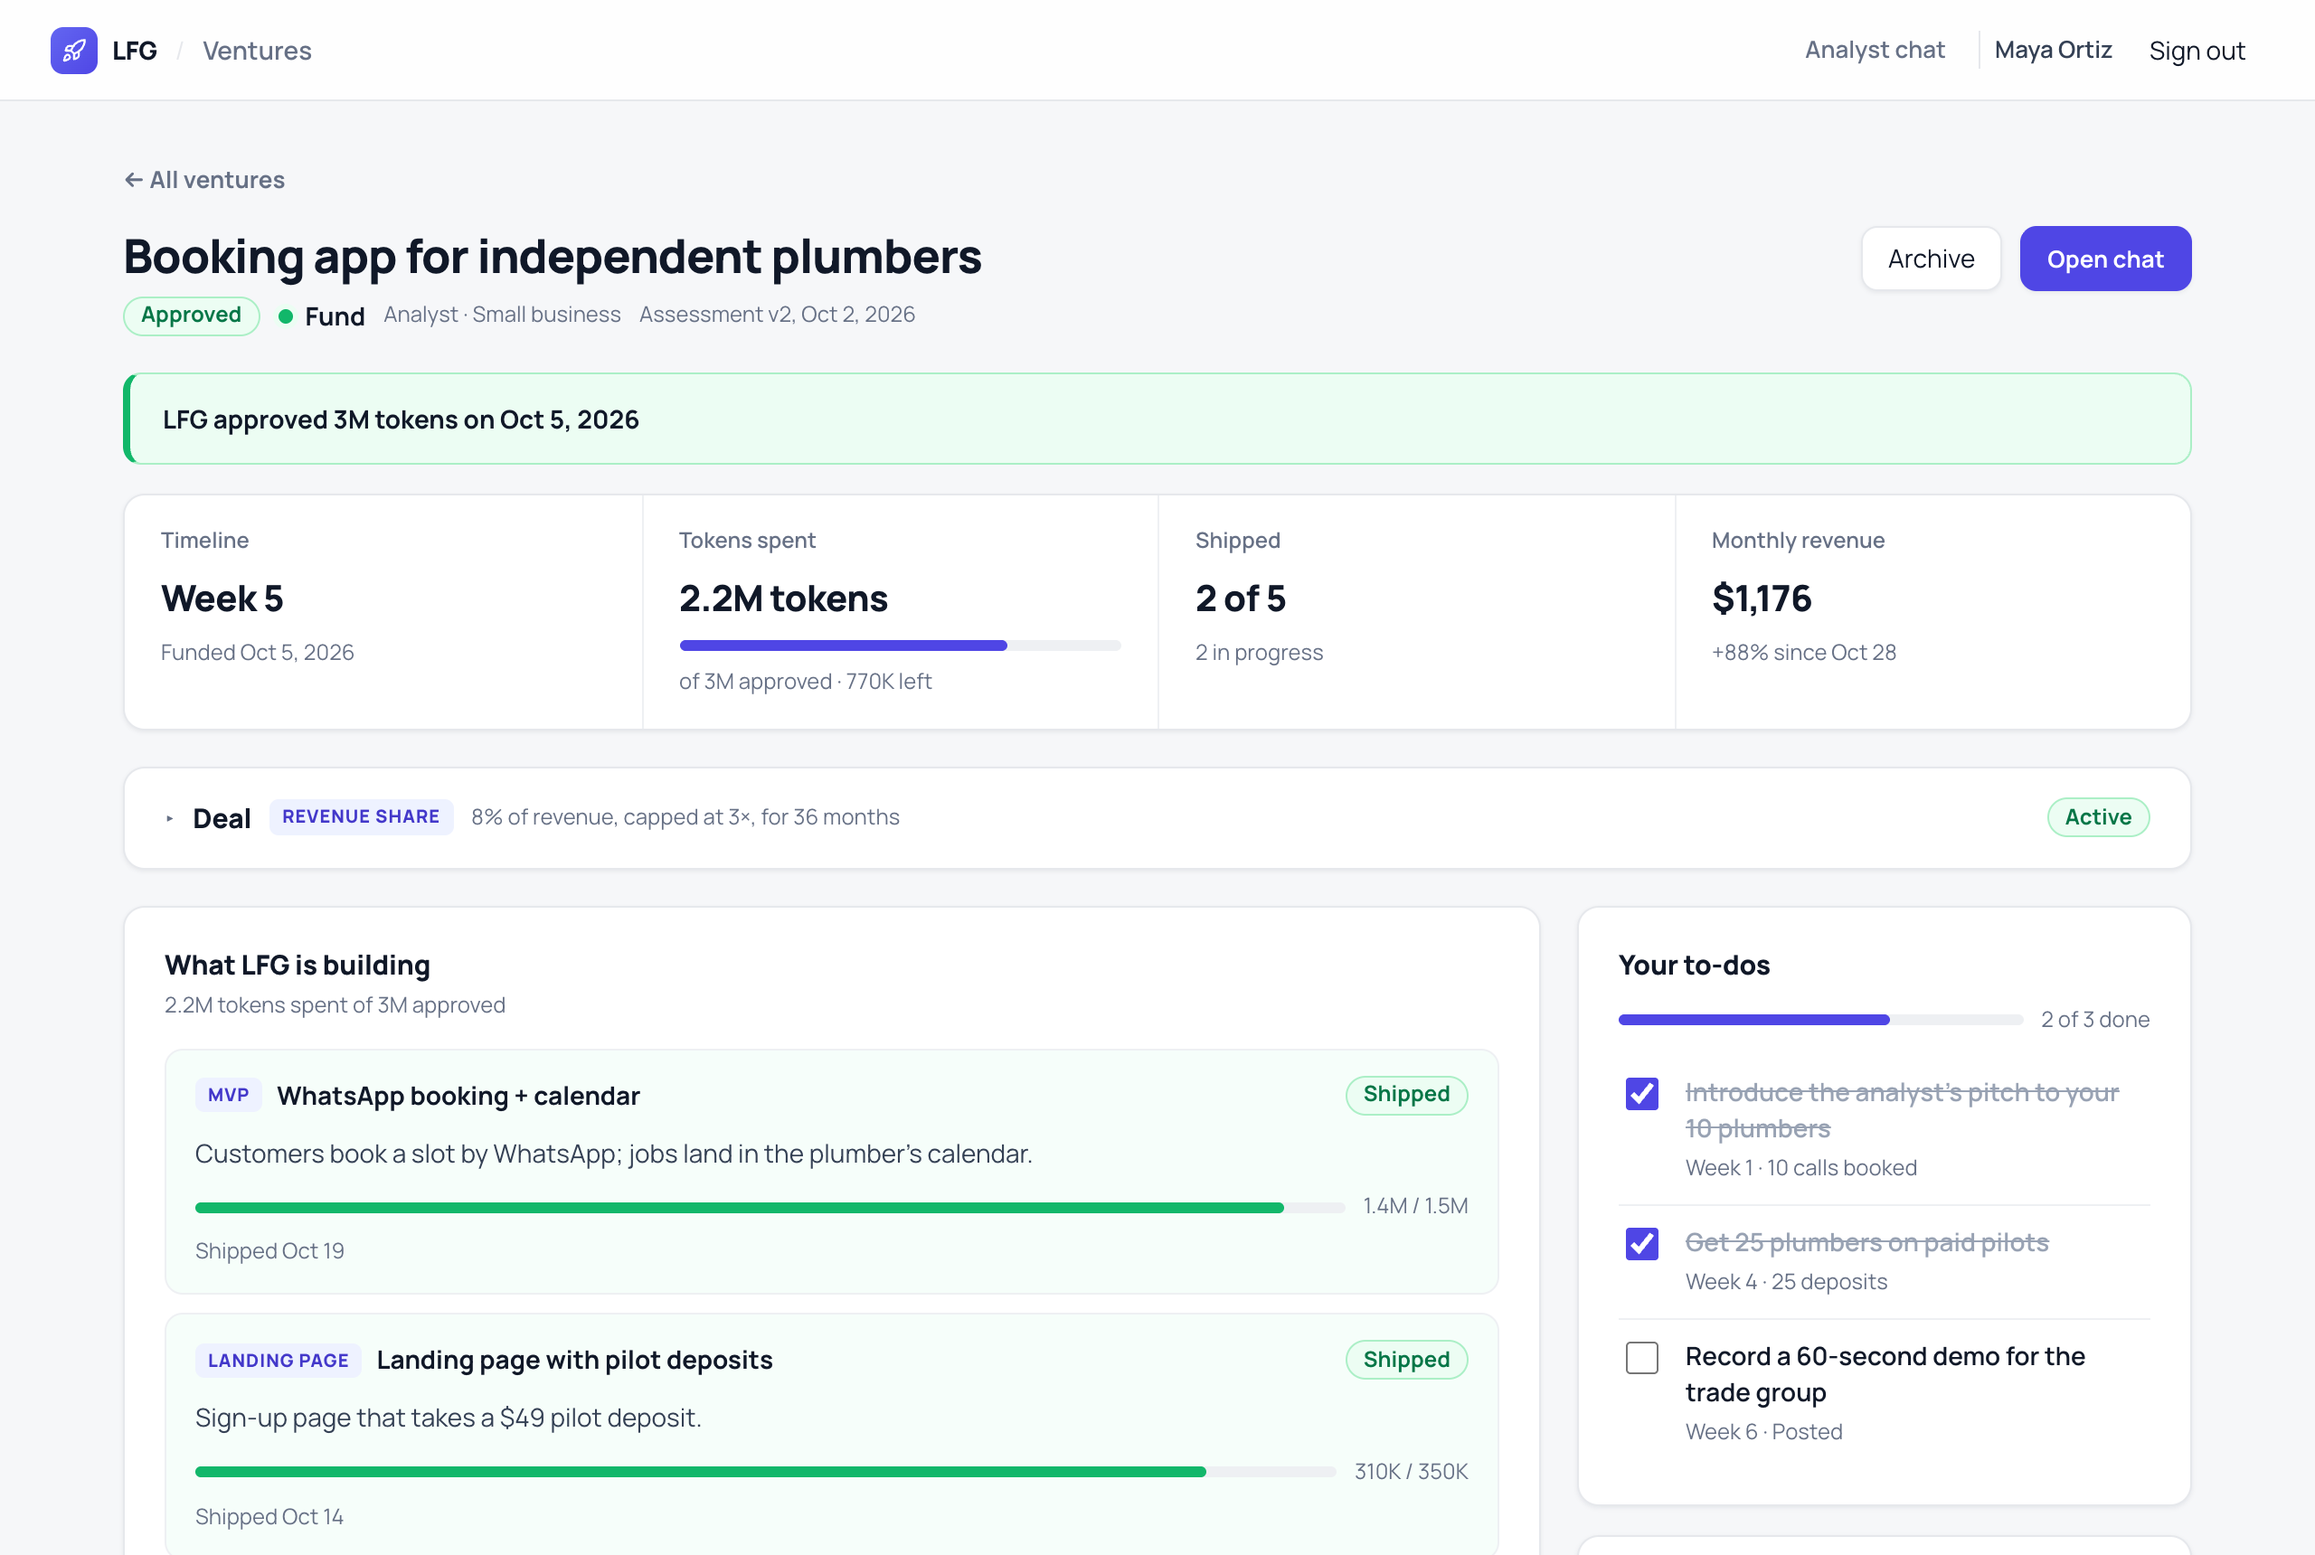
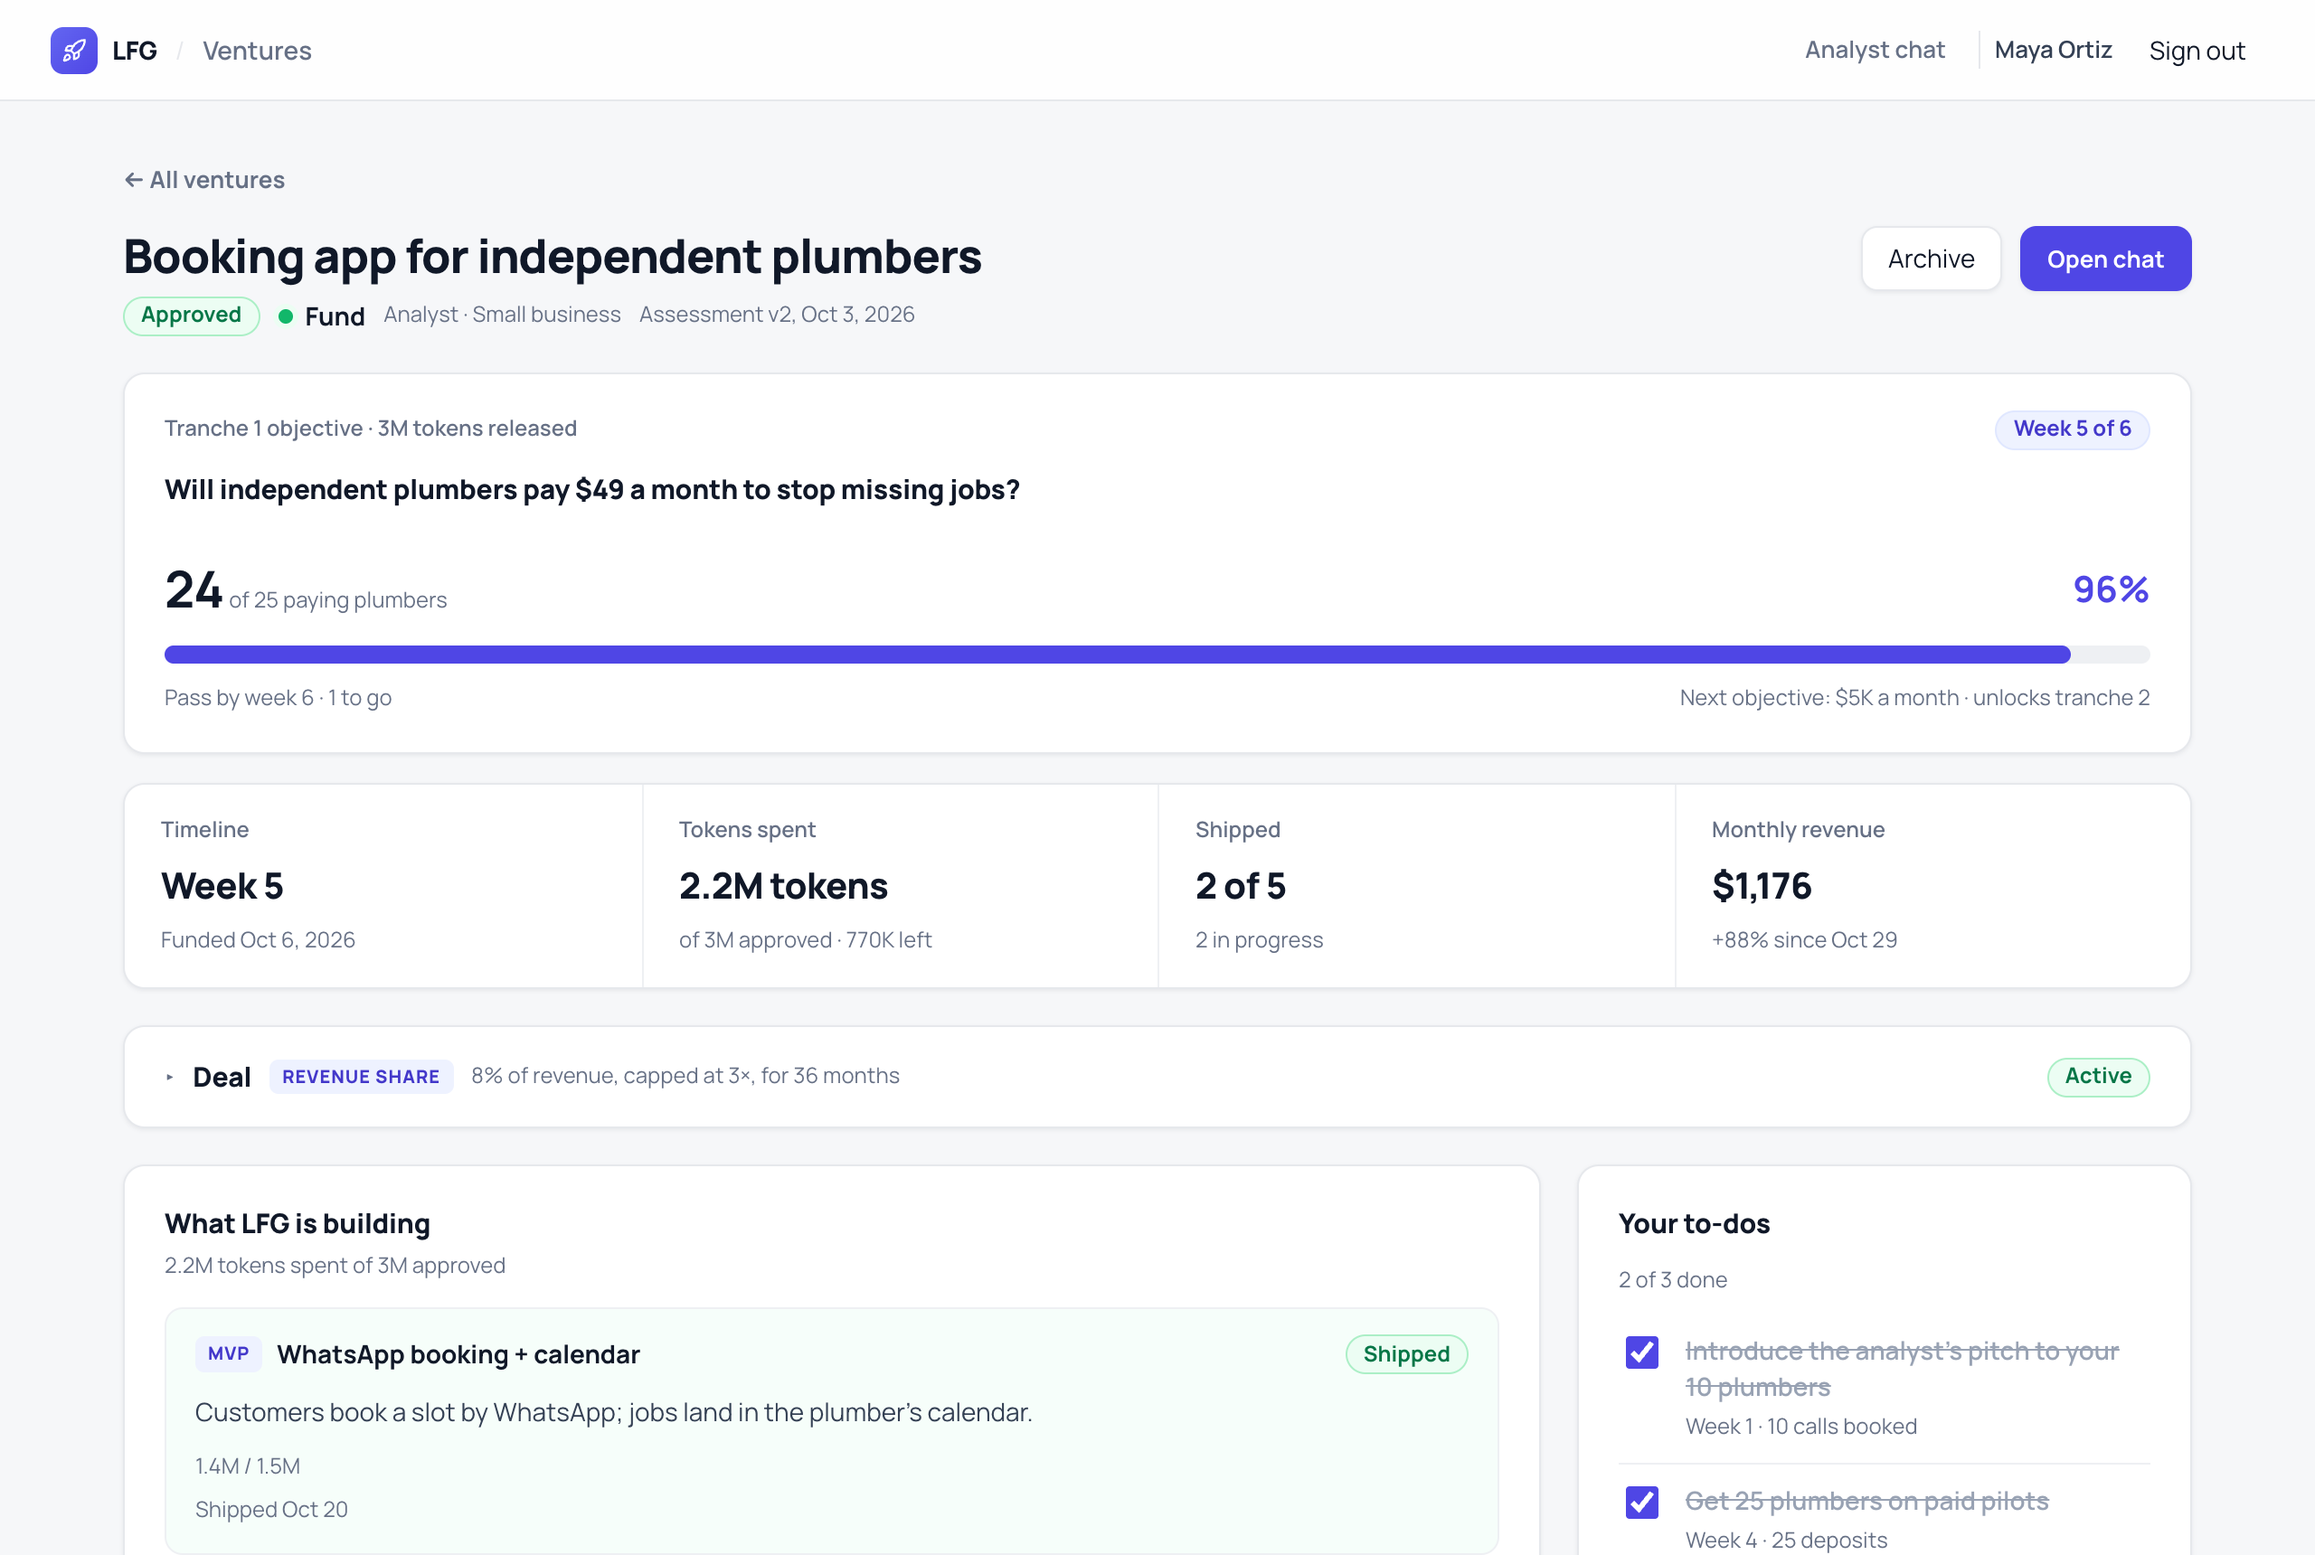
Venture landing: new headline, objective progress in the dashboard shot
Headline: "Your business, built free. We get paid, only if you do."
The dashboard screenshot leads with the tranche objective and one progress
bar (24 of 25 paying plumbers); other progress bars are left out so the
objective is the one thing that reads as progress. The objective card is
not in the product yet.

diff --git a/src/venture/templates/landing.tsx b/src/venture/templates/landing.tsx
@@ -15,7 +15,7 @@ const ideaForm = (id: string) => html`<form class="vh-form" action="${CHAT}" met
 <p class="vh-formnote" role="status">Next, sign in with Google and the analyst picks up your idea. By continuing you agree to the LFG Ventures <a href="/venture-analyst/terms">Terms</a>.</p>`;
 
 export const VentureAnalystPage = () => html`<!doctype html>
-<html lang="en"><head>${SiteHead({ title: "LFG Ventures | Your AI venture partner", description: "LFG is a venture partner that invests tokens and agent execution, not cash. We build your business for free and make money when you do. Start with a conversation.", path: "/venture-analyst" })}
+<html lang="en"><head>${SiteHead({ title: "LFG Ventures | Your AI venture partner", description: "LFG is a venture partner that invests tokens and agent execution, not cash. Your business, built free. We get paid, only if you do. Start with a conversation.", path: "/venture-analyst" })}
 <link rel="stylesheet" href="/public/venture/landing.css">
 <script defer src="/public/venture/landing.js"></script></head>
 <body class="vh-body text-slate-900 font-sans">${SiteNav({})}
@@ -23,7 +23,7 @@ export const VentureAnalystPage = () => html`<!doctype html>
 
 <section class="vh-hero">
   <span class="vh-badge"><span class="vh-logo" aria-hidden="true">${rocket}</span>LFG Ventures · your AI venture partner</span>
-  <h1>We build your business for free. <span class="vl-grad">We make money when you do.</span></h1>
+  <h1>Your business, built free. <span class="vl-grad">We get paid, only if you do.</span></h1>
   <p class="vh-lede">LFG is a venture partner. Instead of cash, we invest tokens and the agents that turn them into execution, in exchange for equity or a share of revenue. You stay the founder.</p>
   ${ideaForm("idea-top")}
   <ul class="vh-trust">
@@ -50,11 +50,11 @@ export const VentureAnalystPage = () => html`<!doctype html>
     <div class="vh-head">
       <p class="vh-kicker">Your venture dashboard</p>
       <h2 class="vh-h2" id="shot-title">Every token, every milestone, in plain view.</h2>
-      <p class="vh-lede">See what the agents are building, what each piece cost, how many tokens are left in the tranche and what your customers are doing.</p>
+      <p class="vh-lede">See the objective you're working toward and how close you are, what the agents are building, how many tokens are left in the tranche and what your customers are doing.</p>
     </div>
     <div class="vh-frame">
       <div class="vh-frame-bar" aria-hidden="true"><i></i><i></i><i></i><span>lfg.run/venture-analyst/dashboard</span></div>
-      <img src="/public/images/screenshots/venture-dashboard.png" width="2560" height="1720" loading="lazy" alt="The LFG venture dashboard for a plumbers' booking app in week 5: 2.2M of 3M approved tokens spent, 770K left, 2 of 5 work items shipped and $1,176 in monthly revenue.">
+      <img src="/public/images/screenshots/venture-dashboard.png" width="2560" height="1720" loading="lazy" alt="The LFG venture dashboard for a plumbers' booking app in week 5: the tranche 1 objective, will plumbers pay $49 a month, is 96% done at 24 of 25 paying plumbers; 2.2M of 3M tokens spent, 770K left, 2 of 5 work items shipped and $1,176 in monthly revenue.">
     </div>
     <div class="vh-callouts">
       <div><b>Tokens left</b><span>The budget still in your tranche, always current.</span></div>
@@ -222,7 +222,7 @@ export const VentureAnalystPage = () => html`<!doctype html>
 
 <section class="vh-final" id="start" aria-labelledby="final-title"><div class="vh-wrap">
   <h2 id="final-title">Have an idea worth building?</h2>
-  <p class="vh-lede">We build it for free. We make money when you do. Start with a conversation, private to you and LFG's venture team.</p>
+  <p class="vh-lede">Your business, built free. We get paid, only if you do. Start with a conversation, private to you and LFG's venture team.</p>
   ${ideaForm("idea-bottom")}
   <a class="vh-thesis" href="/venture-analyst/thesis">Read the thesis →</a>
 </div></section>
